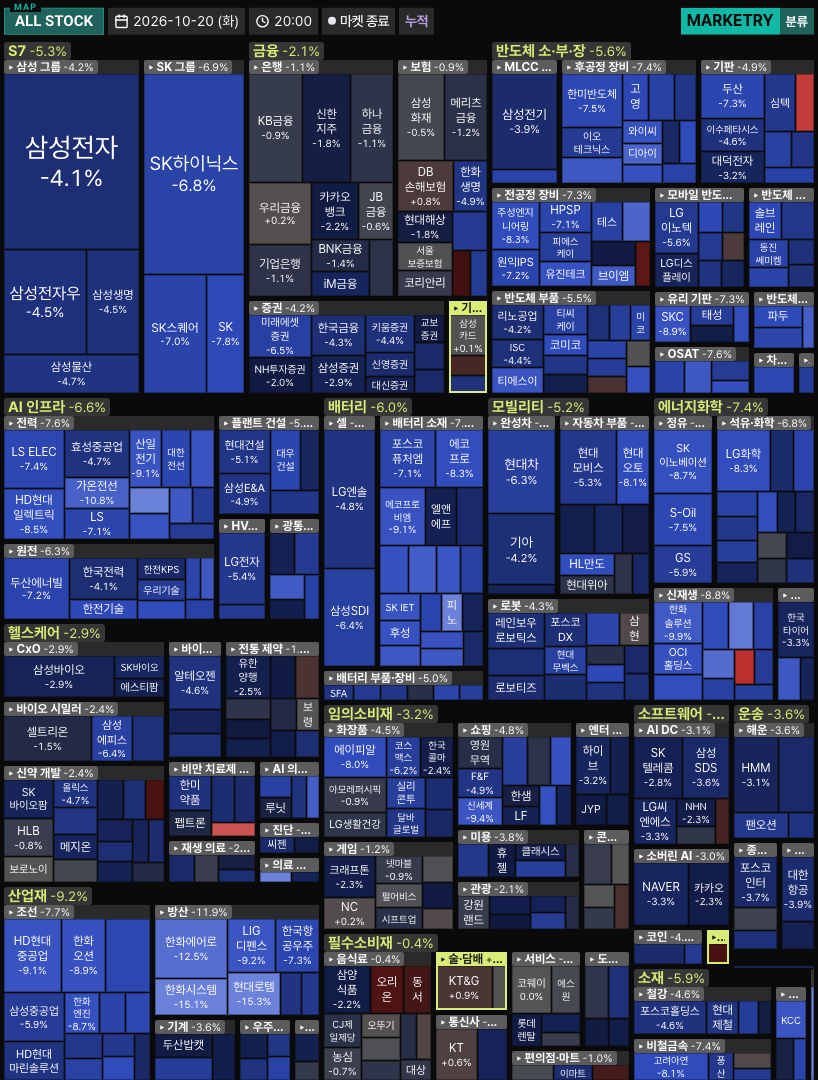
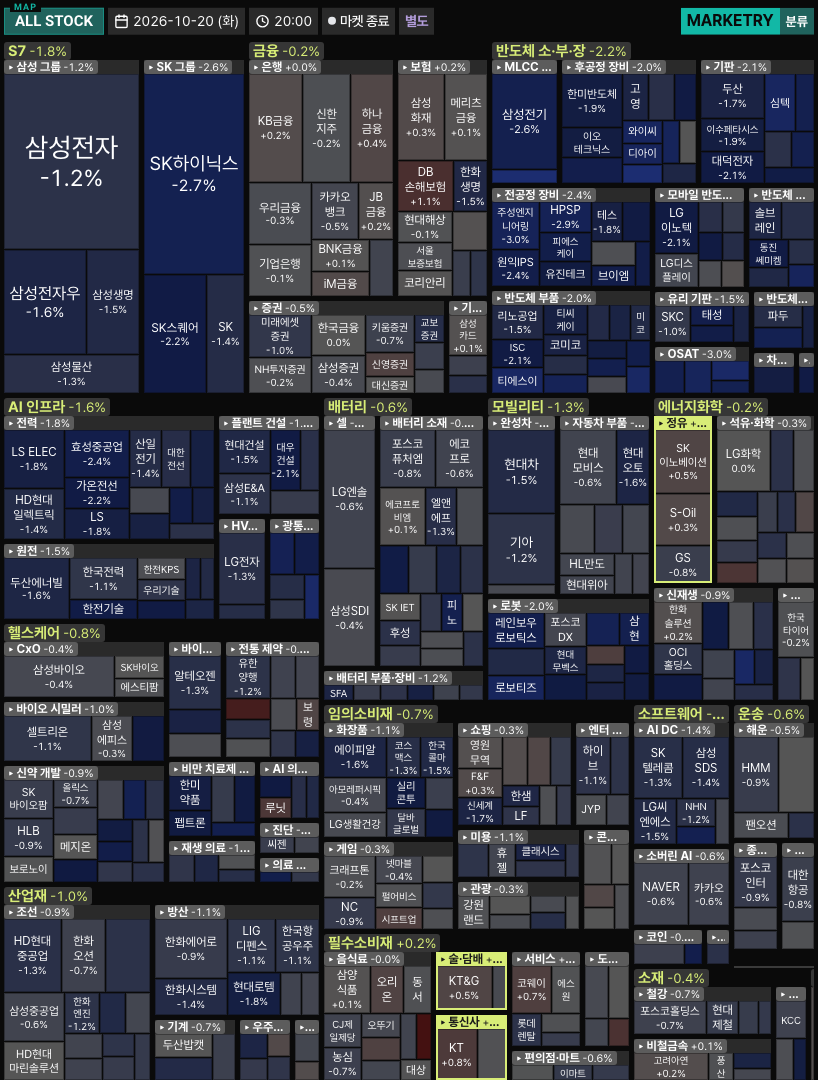
fix: 메시지 페이지 캡션 샘플과 샘플 사진을 별도 기준 새 형식으로 바꾼다

diff --git a/src/pages/AdminMessagePage.tsx b/src/pages/AdminMessagePage.tsx
@@ -37,7 +37,7 @@ function toDraft(setting: TelegramSendSetting): TelegramSendSettingInput {
 }
 
 // 샘플 이미지(2026-10-20 마감)와 같이 나가는 메시지 예시 — 두 시장을 합친 그룹 중 등락률이 가장 높은 그룹(상위)과 가장 낮은 그룹(하위)이다.
-const SAMPLE_CAPTION = ['필수소비재 -0.38%', '금융 -2.07%'].join('\n')
+const SAMPLE_CAPTION = ['신규 상장 +0.16% / 필수소비재 +0.16%', '#애프터'].join('\n')
 
 // 서버가 저장할 때 하는 검사와 같은 기준 — 어긋난 값은 저장 버튼을 막아 서버 오류를 피한다.
 function isValidDraft(draft: TelegramSendSettingInput, setting: TelegramSendSetting) {

diff --git a/docs/history.md b/docs/history.md
@@ -845,6 +845,8 @@ Custom의 본문 로딩·오류 원 여백은 지도·그룹 페이지와 같은
 
 메시지 페이지(`/admin/message`) 샘플 사진의 외곽선을 없앴다(2026-10-23, 사용자 요청): 사진에 씌우던 테두리를 빼고, 샘플 파일도 지금 텔레그램 이미지(홈 판 외곽선 없음·두 영역 너비 같음, 지도 판 `MAP` 라벨)로 다시 만들었다. 지도 모바일 캡처 복제본의 등락률 기준 칩(`누적`)은 보라색 바탕이 칠해지던 예전 모양을 그대로 쓰고 있어서, 지금 툴바 칩 모양(어두운 바탕에 보라 글자)과 같게 고쳤다. 스크린샷 창의 모바일 캡처도 같은 복제 코드를 쓰므로 같이 바뀐다.
 
+메시지 페이지 캡션 샘플을 새 형식으로 바꿨다(2026-10-23, 사용자 요청): `업종 등락률 / 업종 등락률` 한 줄(슬래시로 구분, 줄바꿈 없음) 아래 줄에 시각 태그를 붙인다. 정규장 마감~애프터 마켓 시작(15:30~15:40)은 `#종가`, 15:40부터는 `#애프터`이고 그 전 시각에는 태그가 없다. 샘플 사진은 애프터 시간대(20:00) `별도` 기준 화면(2026-10-20 데이터)이라 `#애프터`를 보여 주고, 캡션 값도 그 사진의 상위 두 업종이다.
+
 ## 확인창·알림창 뒤의 막힌 곳을 누르면 소리와 흔들기 (2026-10-15)
 
 확인창·알림창(`AppDialogHost`)은 화면을 어둡게 덮고 뒤 화면 클릭을 막지만, 막힌 곳을 눌러도 아무 반응이 없어 "왜 안 눌리지" 싶을 수 있다. 윈도우 네이티브 대화창처럼 **창 바깥을 누르면 짧은 "딩" 소리를 내고 창을 0.32초 동안 좌우로 살짝(약 7px) 흔든다**. 창 안쪽(버튼·글자)을 누르면 반응하지 않는다. 소리는 음원 파일 없이 Web Audio로 만든 종소리 모양(1175Hz + 배음 2350Hz, 0.25초에 걸쳐 사라짐)이고(`utils/dialogSound.ts`), 연타해도 0.3초에 한 번만 난다. 윈도우의 진짜 시스템 소리는 웹에서 낼 수 없어 비슷한 톤이다. 운영체제에서 "움직임 줄이기"를 켜 두면 흔들지 않고 소리만 낸다. 배경을 눌러도 창이 닫히지는 않는 기존 동작은 그대로다(버튼이나 Esc로만 닫힌다). 소리를 끄는 설정은 아직 없다.
